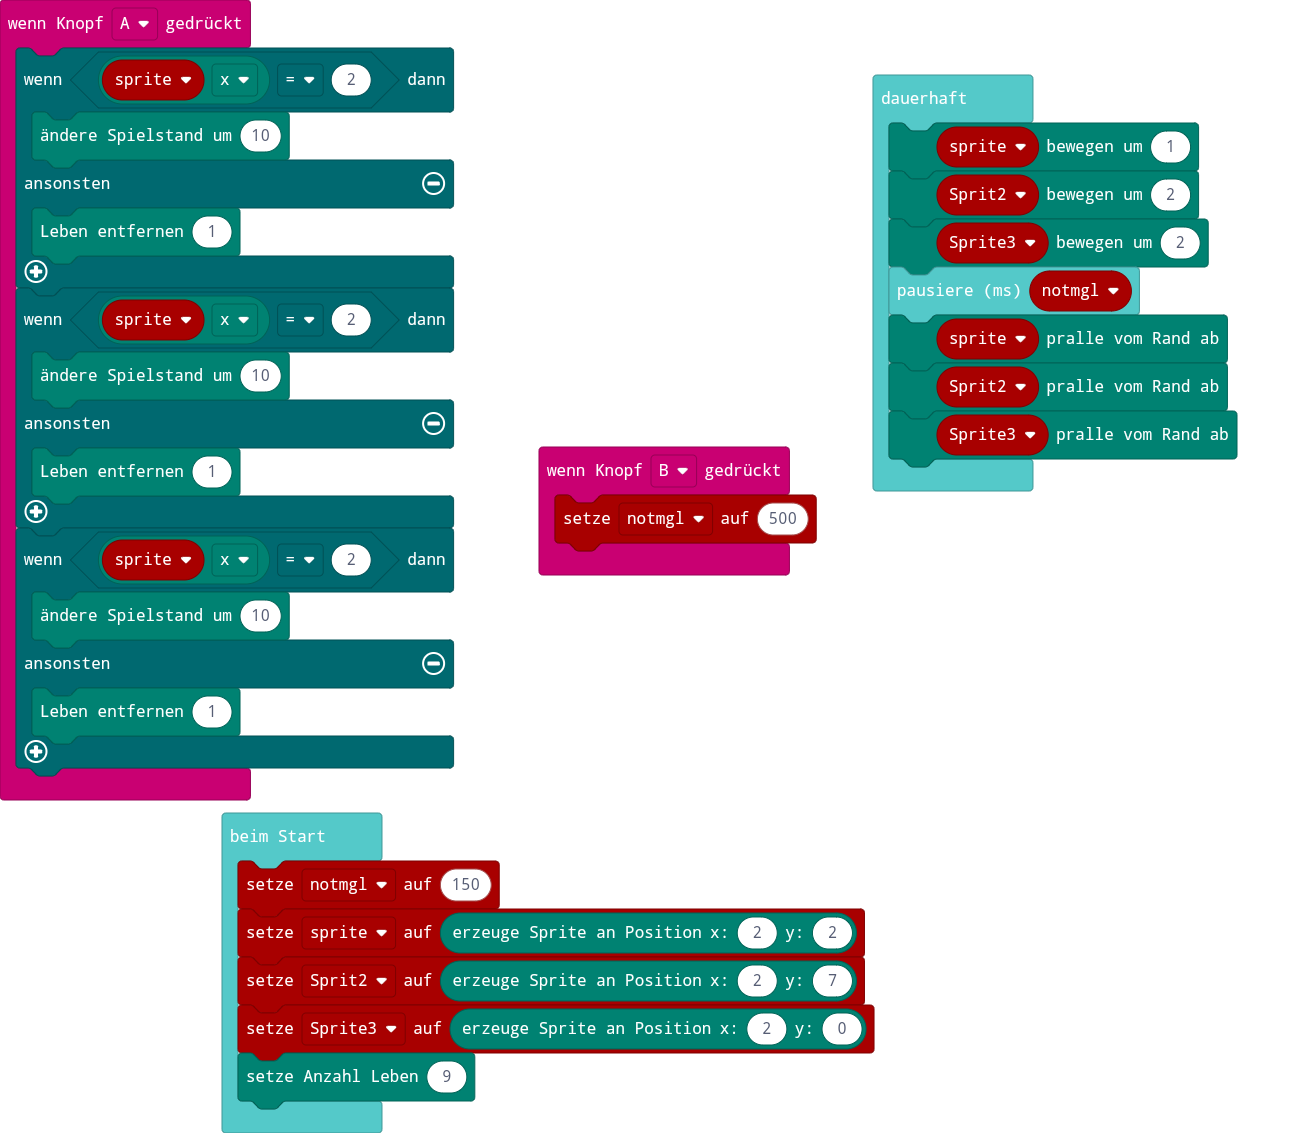
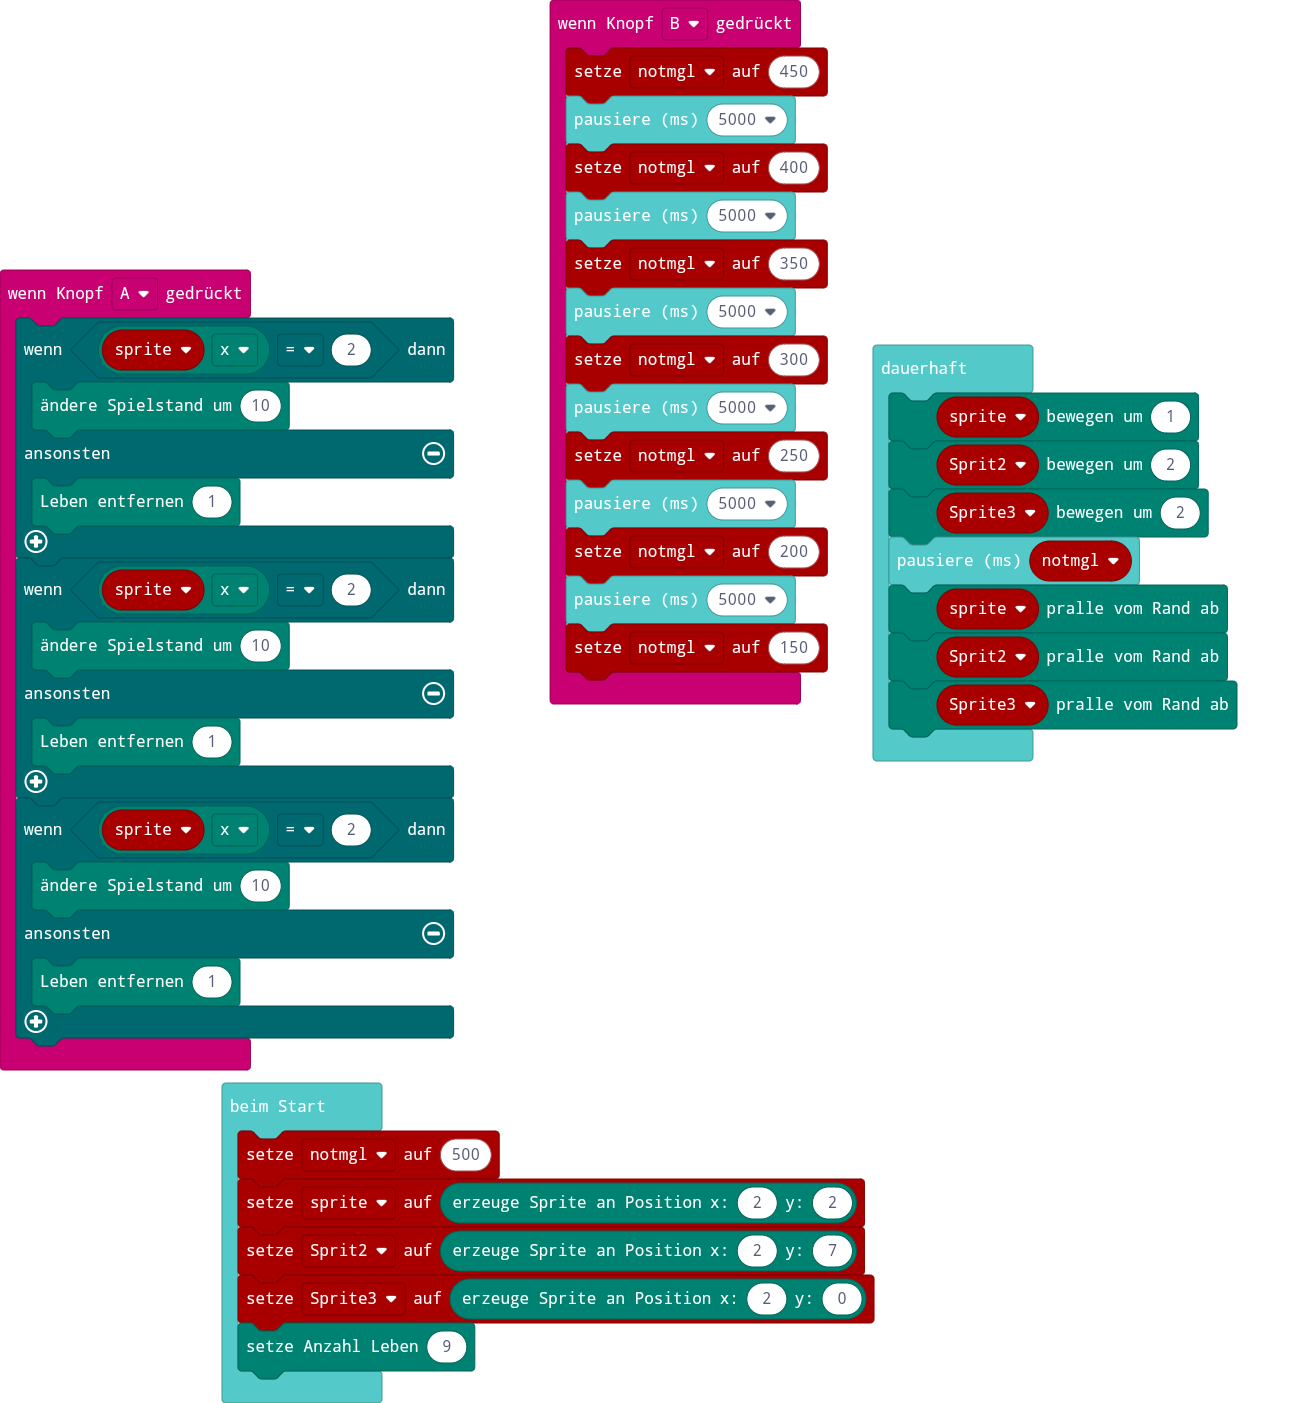
Aktualisiere pxt.json, main.blocks, main.ts

diff --git a/main.ts b/main.ts
@@ -16,11 +16,23 @@ input.onButtonPressed(Button.A, function () {
     }
 })
 input.onButtonPressed(Button.B, function () {
-    notmgl = 500
+    notmgl = 450
+    basic.pause(5000)
+    notmgl = 400
+    basic.pause(5000)
+    notmgl = 350
+    basic.pause(5000)
+    notmgl = 300
+    basic.pause(5000)
+    notmgl = 250
+    basic.pause(5000)
+    notmgl = 200
+    basic.pause(5000)
+    notmgl = 150
 })
 let sprite: game.LedSprite = null
 let notmgl = 0
-notmgl = 150
+notmgl = 500
 sprite = game.createSprite(2, 2)
 let Sprit2 = game.createSprite(2, 7)
 let Sprite3 = game.createSprite(2, 0)
